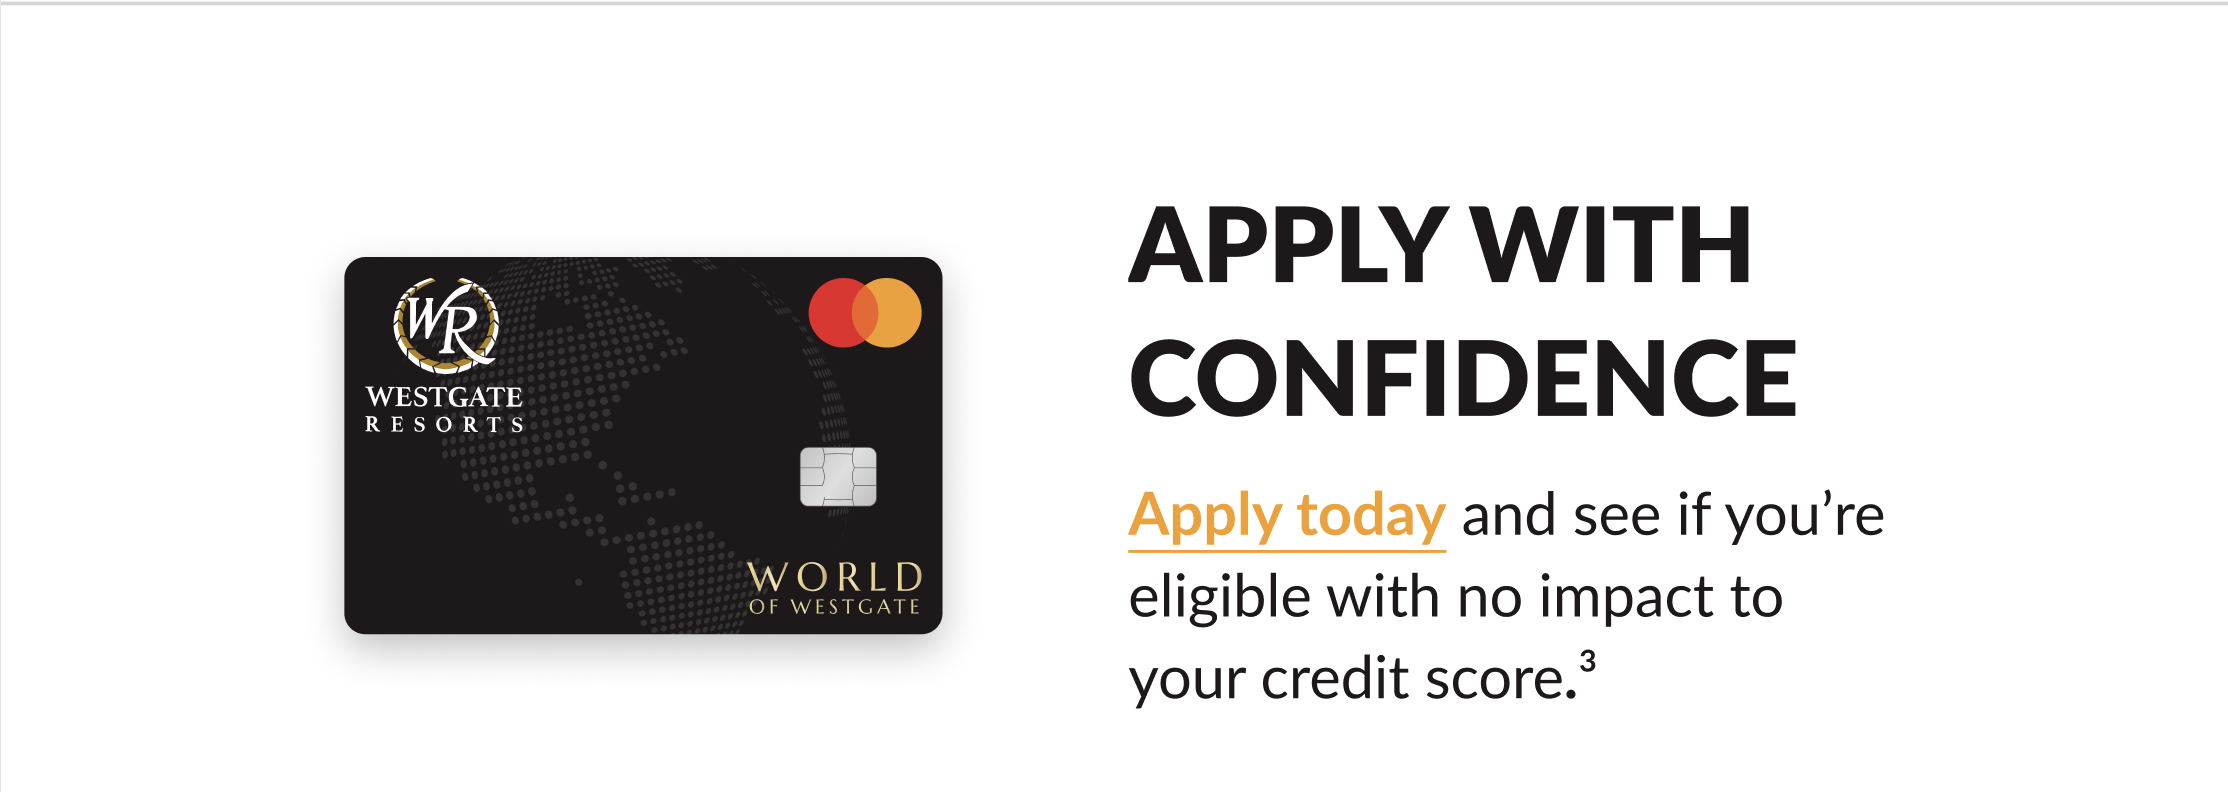
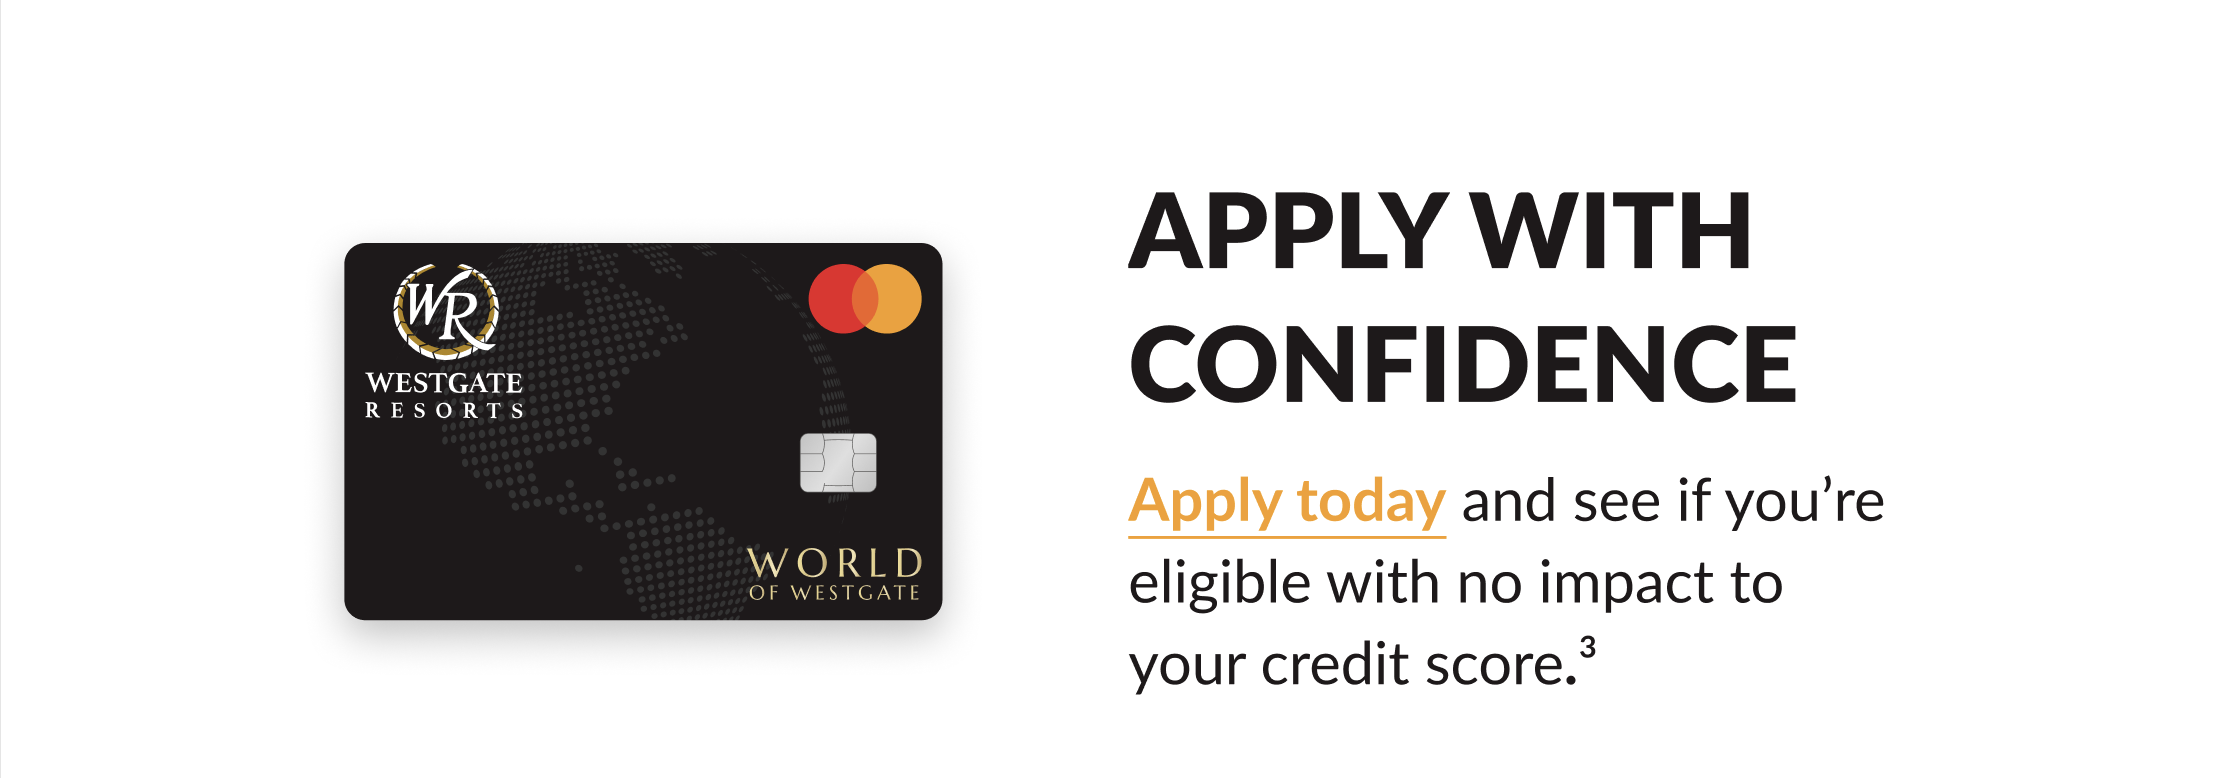
new card pic

diff --git a/emails/v42-NEW_WGR_PreArrival-ITA_automated_email/v42-NEW_WGR_PreArrival-ITA_automated_email.html b/emails/v42-NEW_WGR_PreArrival-ITA_automated_email/v42-NEW_WGR_PreArrival-ITA_automated_email.html
@@ -911,20 +911,8 @@
                                   <table class="block-more-rewards-inner" border="0" width="100%" cellspacing="0"
                                   cellpadding="0" role="presentation">
                                   <tr>
-                                    <td style="max-width: 300px;">
-                                        <img width="50%" alt="WESTGATE RESORTS" src="https://wgr-emails.s3.us-east-2.amazonaws.com/v42-NEW_WGR_PreArrival-ITA_automated_email/images/card.png"> 
-                                    </td>
-                                    <td class="block-rewards-header" width="600px" align="center"
-                                      valign="middle"
-                                      style="color: #1E191A;vertical-align: middle;padding-top:40px;padding-bottom:0px;padding-left:30px;padding-right:30px;width:50%;">
-                                      <p
-                                        style="margin: 0; font-family: 'Lato', Arial, 'Helvetica Neue', Helvetica, Arial, sans-serif;font-size: 28px; color: #1E191A; font-weight: 900; line-height: 36px;text-transform: uppercase; text-align: center;">
-                                        apply with confidence</p>
-                                        <p class="subtitle"
-                                        style="color:#1E191A; margin: 0; font-weight:400; font-size:16px; line-height:23px; text-align: center;">
-                                        <a style="color: #B28517; font-weight:400;" href="https://link.imprint.co/e/LfbO36VNlHb" target="_blank" rel="noopener">Apply today</a>
-                                         and see if you’re eligible with no impact to your credit score.<sup style="line-height: 100%; font-size: 60%">3</sup>
-                                      </p>
+                                    <td style="max-width: 600px;">
+                                        <img alt="WESTGATE RESORTS" src="https://wgr-emails.s3.us-east-2.amazonaws.com/v42-NEW_WGR_PreArrival-ITA_automated_email/images/card.png"> 
                                     </td>
                                   </tr>
                                   <tr>
